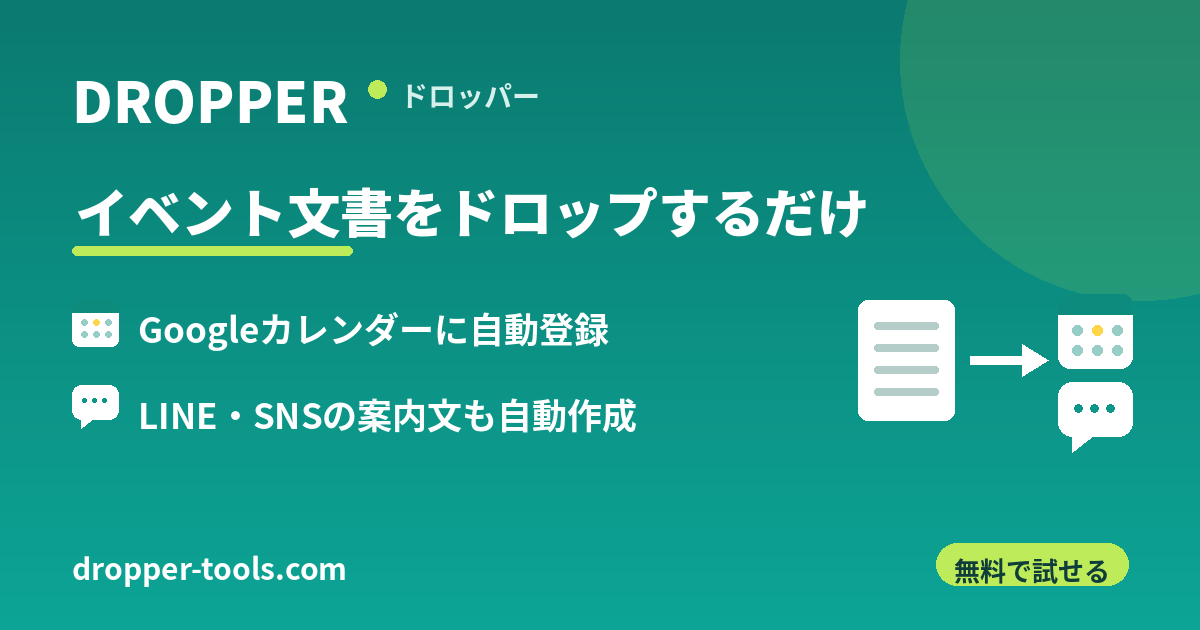
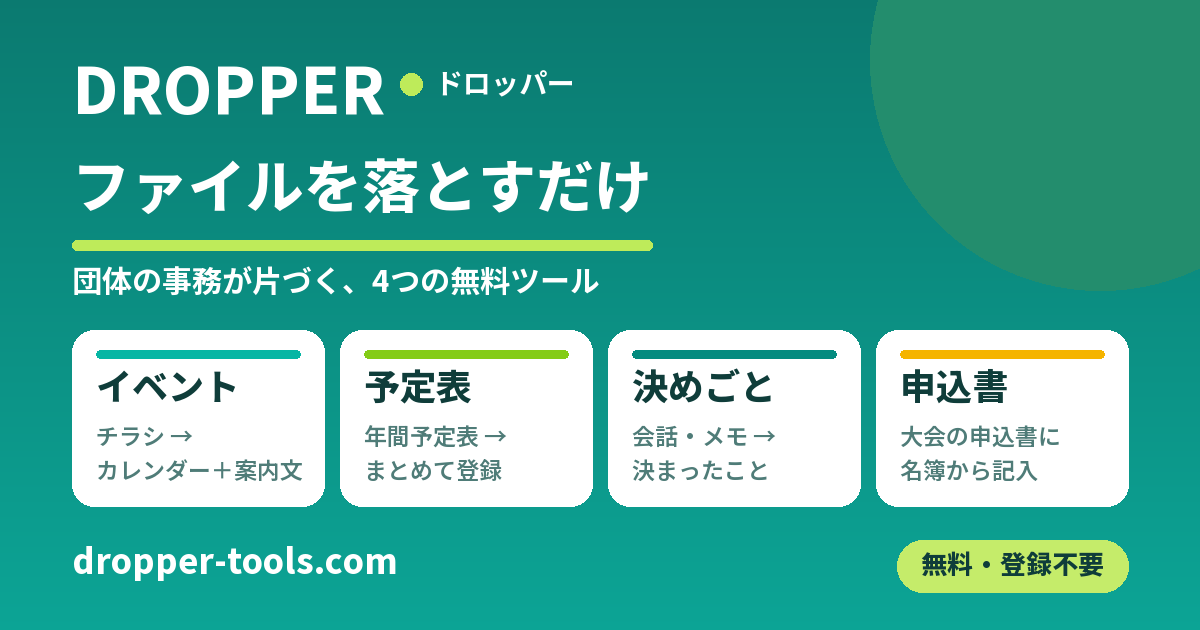
日本語のカード画像（OGP）を「4本を並べた形」に作り替える (#21)
X の固定ポストで4本（イベント・予定表・決めごと・申込書）を紹介したら、その下のカード画像が
「イベント文書をドロップするだけ」（イベントドロッパーだけの頃の絵）のままだった（本人の依頼、2026-09-24）。

- 見出し「ファイルを落とすだけ」／「団体の事務が片づく、4つの無料ツール」
- 4本をカードで並べる。色の帯は LINE のリッチメニューの色にそろえた
- 背景・円・黄緑は前の画像から色を取り、同じ一家に見えるようにした
- 決めごとの色（#048b7f）は背景に近いので、帯をカードの内側に置いた（縁に置くと上端が溶けた）
- 作り方を tools/make-og-ja.py に残した（前の画像は作り方が残っておらず、一から描き直した）。
  スクリプトで同じ画像ができることを確かめた

英語版・インド版は前のまま（申込書ドロッパーは日本語のみ）。

diff --git a/tools/make-og-ja.py b/tools/make-og-ja.py
@@ -1,0 +1,91 @@
+# -*- coding: utf-8 -*-
+# 周知サイトのカード画像（OGP、1200x630）を「4本を並べた形」で作る（2026-09-24）
+#   python tools/make-og-ja.py assets/og/og-ja.png
+# 書体は Windows の Noto Sans JP（C:/Windows/Fonts/NotoSansJP-VF.ttf）。Pillow が要る。
+# ★ 日本語版だけ。英語版・インド版（og-en / og-in）は申込書ドロッパーが無い（日本語のみ）ので作り替えていない
+# ★ 前の画像（2026-07-26）はイベントドロッパーだけの頃のもので、X の固定ポスト（4本を紹介）の下に
+#   「イベント文書をドロップするだけ」と出ていた。色は前の画像から取り、同じ一家に見えるようにする
+import sys
+from PIL import Image, ImageDraw, ImageFont
+
+W, H = 1200, 630
+OUT = sys.argv[1] if len(sys.argv) > 1 else 'og-ja.png'
+NOTO = 'C:/Windows/Fonts/NotoSansJP-VF.ttf'
+
+def font(size, weight):
+    f = ImageFont.truetype(NOTO, size)
+    try:
+        f.set_variation_by_axes([weight])
+    except Exception:
+        pass
+    return f
+
+INK = '#0f3d3a'
+SUB = '#4f7c78'
+LIME = '#beeb5a'
+TOOLS = [
+    # 名前, 1行目, 2行目, 帯の色（LINE のリッチメニューの色にそろえる）
+    ('イベント', 'チラシ →', 'カレンダー＋案内文', '#06b6a4'),
+    ('予定表', '年間予定表 →', 'まとめて登録', '#84cc16'),
+    ('決めごと', '会話・メモ →', '決まったこと', '#048b7f'),
+    ('申込書', '大会の申込書に', '名簿から記入', '#f5b400'),
+]
+
+im = Image.new('RGB', (W, H))
+px = im.load()
+# 縦のグラデーション（前の画像と同じ #0b7a70 → #0ca495）
+top, bot = (0x0b, 0x7a, 0x70), (0x0c, 0xa4, 0x95)
+d = ImageDraw.Draw(im)
+for y in range(H):
+    t = y / (H - 1)
+    c = tuple(round(top[i] + (bot[i] - top[i]) * t) for i in range(3))
+    d.line([(0, y), (W, y)], fill=c)
+# 右上の大きな円（前の画像と同じ）
+d.ellipse([1100 - 230, 60 - 230, 1100 + 230, 60 + 230], fill='#238d6d')
+
+def text_w(s, f):
+    return d.textlength(s, font=f)
+
+# ロゴ「DROPPER ● ドロッパー」
+fl = font(64, 800)
+d.text((72, 50), 'DROPPER', font=fl, fill='white')
+lx = 72 + text_w('DROPPER', fl) + 26
+d.ellipse([lx - 11, 84 - 11, lx + 11, 84 + 11], fill=LIME)
+d.text((lx + 24, 66), 'ドロッパー', font=font(28, 700), fill='white')
+
+# 見出し
+fh = font(58, 800)
+head = 'ファイルを落とすだけ'
+d.text((72, 150), head, font=fh, fill='white')
+hw = text_w(head, fh)
+d.rounded_rectangle([72, 240, 72 + hw, 250], radius=5, fill=LIME)
+d.text((72, 262), '団体の事務が片づく、4つの無料ツール', font=font(30, 700), fill='white')
+
+# 4本のカード
+CX, CY, CW, CH, GAP = 72, 330, 252, 176, 16
+fn = font(36, 800)
+for i, (name, l1, l2, color) in enumerate(TOOLS):
+    x = CX + i * (CW + GAP)
+    d.rounded_rectangle([x, CY, x + CW, CY + CH], radius=22, fill='white')
+    # 色の帯はカードの内側に置く。★ 決めごとの色（#048b7f）は背景の青緑に近く、
+    #   カードの縁に帯を置くと、カードの上端が背景に溶けて見えた
+    d.rounded_rectangle([x + 24, CY + 20, x + CW - 24, CY + 28], radius=4, fill=color)
+    d.text((x + 24, CY + 34), name, font=fn, fill=INK)
+    # 説明は枠に収まる大きさまで縮める
+    for j, line in enumerate((l1, l2)):
+        size = 23
+        while size > 16 and text_w(line, font(size, 600)) > CW - 44:
+            size -= 1
+        d.text((x + 24, CY + 92 + j * 34), line, font=font(size, 600), fill=SUB)
+
+# 下の段
+d.text((72, 540), 'dropper-tools.com', font=font(34, 800), fill='white')
+fp = font(26, 800)
+pill = '無料・登録不要'
+pw = text_w(pill, fp)
+px1 = 1128
+d.rounded_rectangle([px1 - pw - 48, 540, px1, 592], radius=26, fill='#c5ec6a')
+d.text((px1 - pw - 24, 548), pill, font=fp, fill=INK)
+
+im.save(OUT, optimize=True)
+print('書いた: %s（%dx%d）' % (OUT, W, H))

diff --git a/CLAUDE.md b/CLAUDE.md
@@ -80,6 +80,12 @@ APIキー入力のハードルを下げるための専用ページ。**ツール
   - トップ: `WebApplication` の JSON-LD
   - ガイド: `HowTo` の JSON-LD（`guide.st1〜st4title/body` から4ステップを生成）
 - OG画像: `assets/og/og-{ja,en,in}.png`（1200×630）。パスを変えるなら `build_seo_head()` も直す。
+  - **日本語版は 2026-09-24 に「4本を並べた形」に作り替えた**（X の固定ポストで4本を紹介したら、
+    その下に「イベント文書をドロップするだけ」と出ていた）。**作り直すときは `tools/make-og-ja.py`**
+    （前の画像は作り方が残っておらず、一から描き直した）
+  - 英語版・インド版は**前のまま**（イベントドロッパーだけの頃の絵）。申込書ドロッパーは日本語のみなので、
+    作り替えるなら3本の形になる
+  - **★ 同じファイル名で差し替えても、X や LINE はしばらく古い画像を出す**（ページのカードを覚えている）
 - hreflang は `ja` / `en` / `en-IN` / `x-default=ja`。`sitemap.xml` と揃える。
 - Search Console に sitemap 送信済み。
 
